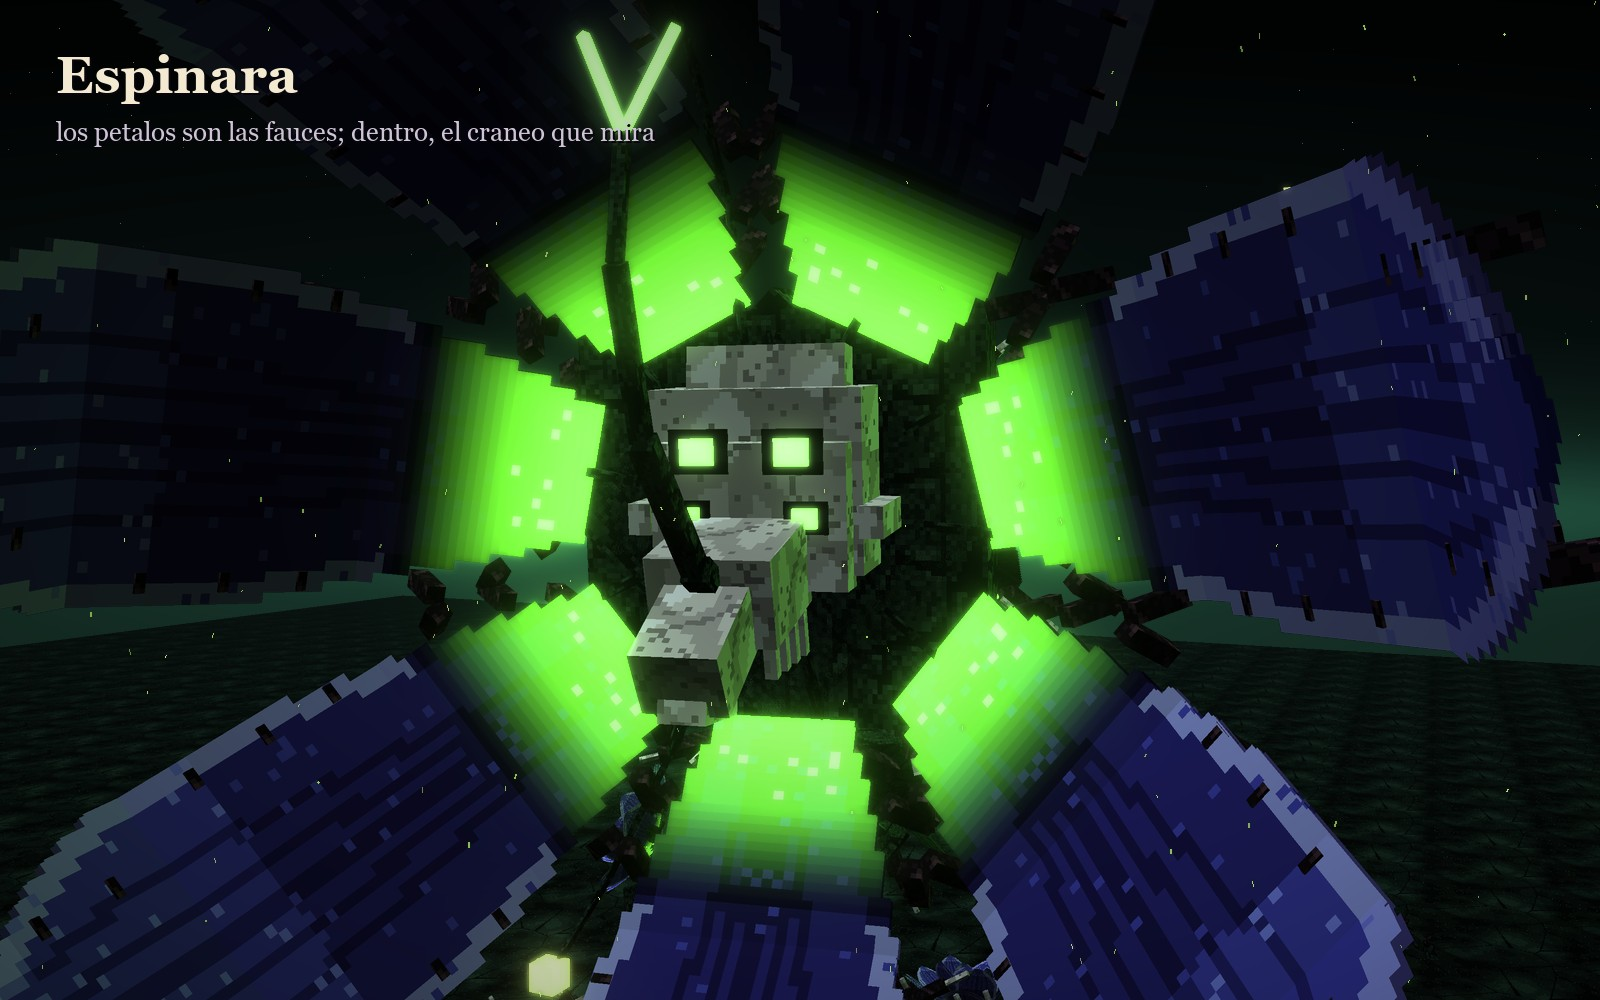
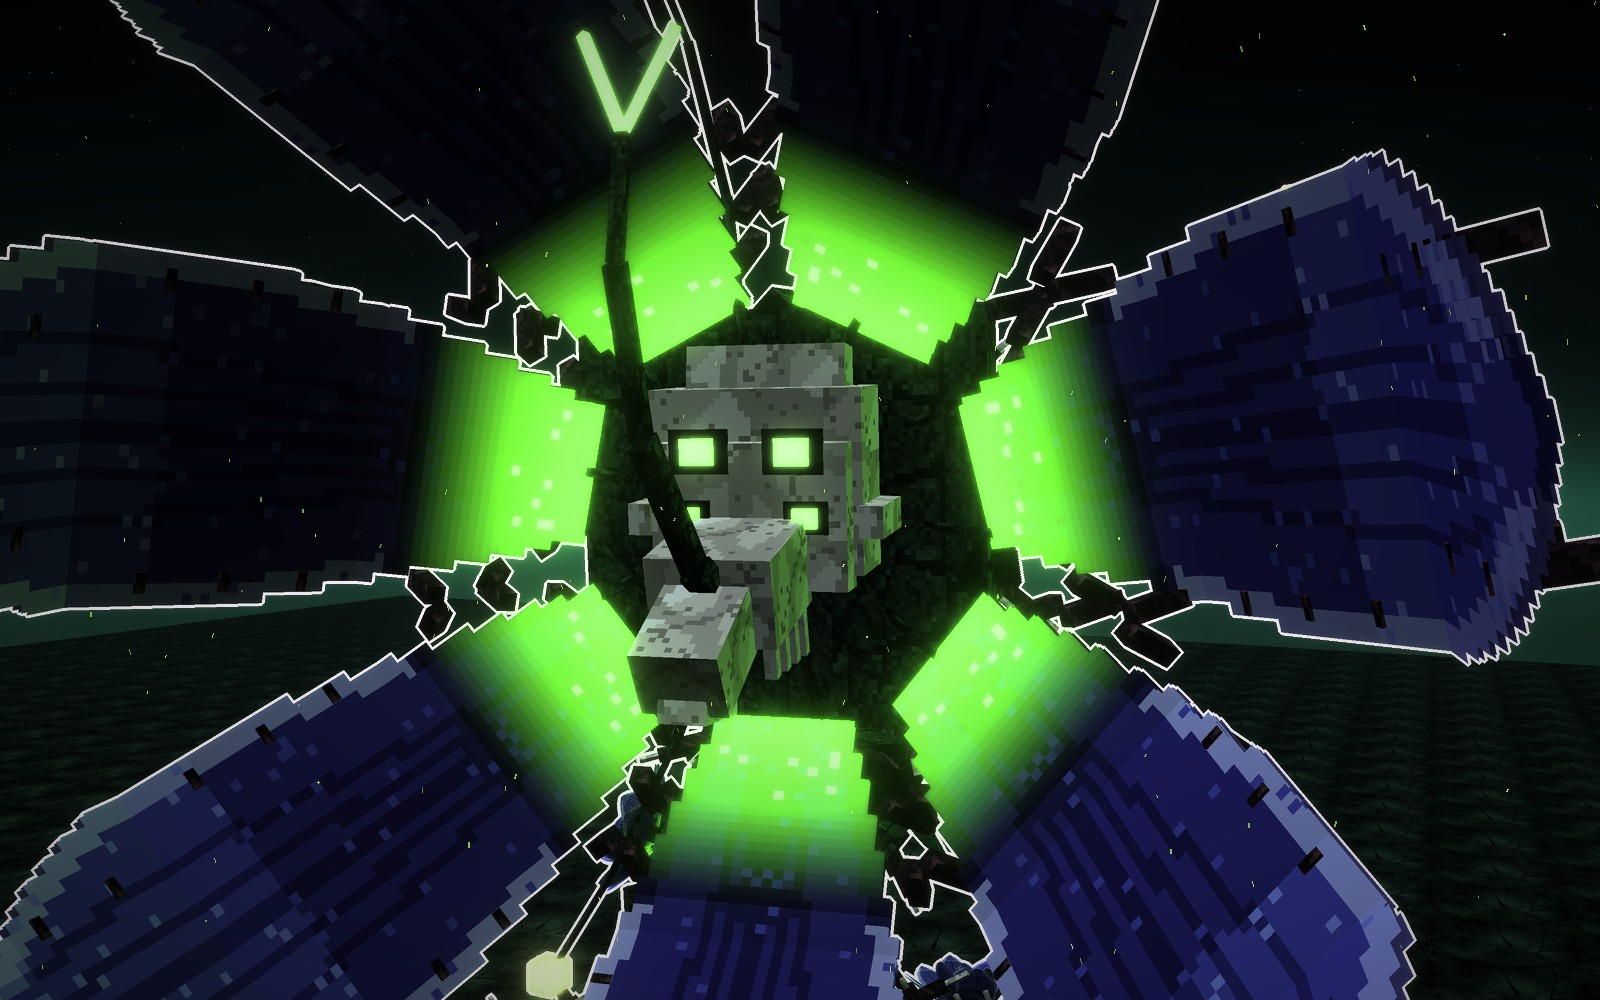
Espinara sheet: no text and a white outline; Lumara closed
- Espinara's photos no longer carry titles, and wear Lumara's white
  outline; her materials sheet is now hers alone and has no labels
- quimeras_escenas.py: no text on renders, outline for Espinara,
  new materiales_C scene
- the monster guide marks Lumara as the best design so far

diff --git a/materiales/generadores/quimeras_escenas.py b/materiales/generadores/quimeras_escenas.py
@@ -7,6 +7,10 @@ escala y la lamina de materiales.
   B  Ixtara     la noche de luna, con niebla baja
   C  Espinara   la cienaga de noche, con esporas que flotan
 
+Las fotos salen sin letras (las fichas no llevan texto encima de los renders) y Espinara lleva el
+contorno blanco, como Lumara (Juan, 13-10-2026: «a Espinara su diseno de ficha quitale las letras
+para que se vea mas claro y pongamosle borde blanco tambien»).
+
 Uso: python quimeras_escenas.py <raiz del proyecto> <carpeta de salida> [escena,escena...]
 """
 import math, os, random, sys
@@ -326,6 +330,26 @@ def rotular(img, texto, sub=None):
     return img
 
 
+def perfilar(lz, mascara, grosor, color=(1.0, 0.97, 1.0)):
+    """El contorno blanco (el de Lumara): los pixeles de fuera que tocan la figura y quedan detras de
+    ella."""
+    zc = np.where(mascara, lz.z, np.inf)
+    for _ in range(grosor):
+        e = zc.copy()
+        e[1:] = np.minimum(e[1:], zc[:-1])
+        e[:-1] = np.minimum(e[:-1], zc[1:])
+        e[:, 1:] = np.minimum(e[:, 1:], zc[:, :-1])
+        e[:, :-1] = np.minimum(e[:, :-1], zc[:, 1:])
+        zc = np.where(mascara, zc, e)
+    borde = ~mascara & np.isfinite(zc) & (lz.z > zc)
+    lz.color[borde] = color
+    lz.alfa[borde] = 1.0
+    lz.emis[borde] = np.array(color) * 0.15
+
+
+CONTORNO = {'C'}                      # las que llevan el contorno blanco: Espinara
+
+
 def quimera(cual, **k):
     if cual == 'A':
         return qm.quelvora(**k)
@@ -370,11 +394,13 @@ def heroe(cual):
     suelo(lz, cam, niebla, cual)
     decorado(lz, cam, niebla, cual)
     qs, info = quimera(cual)
+    z0 = lz.z.copy()
     qm.dibujar(lz, cam, qs, SITIO[cual]['luces'], SITIO[cual]['amb'], niebla)
+    if cual in CONTORNO:
+        perfilar(lz, lz.z < z0, 3 * SS)
     if cual == 'A':
         haz(lz, cam, *info['faro'])
-    img = componer(lz, cam, W, H, cual, n_motas=170)
-    guardar(rotular(img, NOMBRE[cual], SUB_HEROE[cual]), 'heroe_' + cual)
+    guardar(componer(lz, cam, W, H, cual, n_motas=170), 'heroe_' + cual)                 # sin letras
 
 
 def cabeza(cual):
@@ -386,11 +412,13 @@ def cabeza(cual):
     suelo(lz, cam, niebla, cual)
     decorado(lz, cam, niebla, cual)
     qs, info = quimera(cual, **DE_CERCA[cual])
+    z0 = lz.z.copy()
     qm.dibujar(lz, cam, qs, SITIO[cual]['luces'], SITIO[cual]['amb'], niebla)
+    if cual in CONTORNO:
+        perfilar(lz, lz.z < z0, 3 * SS)
     if cual == 'A':
         haz(lz, cam, *info['faro'], brillo=0.35)
-    img = componer(lz, cam, W, H, cual, n_motas=110)
-    guardar(rotular(img, NOMBRE[cual].split(',')[0], SUB_CABEZA[cual]), 'cabeza_' + cual)
+    guardar(componer(lz, cam, W, H, cual, n_motas=110), 'cabeza_' + cual)                # sin letras
 
 
 def trio():
@@ -450,7 +478,32 @@ def materiales():
     guardar(img, 'materiales')
 
 
+def materiales_espinara():
+    """La lamina de materiales de Espinara sola, sin letras: de izquierda a derecha y de arriba
+    abajo, la corteza de zarza, la espina, el petalo, la hoja, el farolillo, el hueso del craneo, los
+    dientes, las fauces, la savia y el polen."""
+    hojas = ('tallo', 'espina', 'petalo', 'hoja', 'vaina', 'hueso', 'diente', 'fauce', 'savia', 'polen')
+    cols, celda, hueco = 5, 280, 36
+    W = hueco + cols * (celda + hueco)
+    H = hueco + 2 * (celda + hueco)
+    img = Image.new('RGB', (W, H), (18, 15, 22))
+    d = ImageDraw.Draw(img)
+    for k, mat in enumerate(hojas):
+        t = qm.MAT[mat]
+        h, w = t.shape[:2]
+        esc = min(celda / w, celda / h)
+        im = Image.fromarray(t).resize((int(w * esc), int(h * esc)), Image.NEAREST)
+        cx = hueco + (k % cols) * (celda + hueco)
+        cy = hueco + (k // cols) * (celda + hueco)
+        fondo = Image.new('RGBA', (celda, celda), (36, 30, 44, 255))
+        fondo.paste(im, ((celda - im.width) // 2, (celda - im.height) // 2), im)
+        img.paste(fondo.convert('RGB'), (cx, cy))
+        d.rectangle((cx - 1, cy - 1, cx + celda, cy + celda), outline=(80, 70, 96))
+    guardar(img, 'materiales_C')
+
+
 ESCENAS = {
+    'materiales_C': materiales_espinara,
     'heroe_A': lambda: heroe('A'), 'heroe_B': lambda: heroe('B'), 'heroe_C': lambda: heroe('C'),
     'cabeza_A': lambda: cabeza('A'), 'cabeza_B': lambda: cabeza('B'), 'cabeza_C': lambda: cabeza('C'),
     'trio': trio, 'materiales': materiales,

diff --git a/materiales/fichas/COMO_HACEMOS_LOS_MONSTRUOS.md b/materiales/fichas/COMO_HACEMOS_LOS_MONSTRUOS.md
@@ -6,8 +6,9 @@ errores.
 
 ## El objetivo
 
-Monstruos al nivel de **Ofidia** (Dedsafio 4) y de **Espinara**: inventados, hechos de
-dos o tres criaturas mezcladas con algo nuevo. No un animal de verdad agrandado.
+Monstruos al nivel de **Lumara** (el mejor hasta ahora, nacida de estudiar a la Ofidia de
+Dedsafio 4) y de **Espinara**: inventados, hechos de dos o tres criaturas mezcladas con algo
+nuevo. No un animal de verdad agrandado.
 
 ## La receta
 
@@ -56,12 +57,12 @@ Los jefes van en `bosses/` y los bichos normales en `mobs/`.
 
 | Ficha | Qué es | Veredicto de Juan |
 |---|---|---|
-| `bosses/espinara/` | zarza que florece, flor carnívora por cabeza | le gustó mucho |
+| `bosses/espinara/` | zarza que florece, flor carnívora por cabeza | le gustó mucho; fotos sin letras y con borde blanco |
 | `bosses/simara/` | sierpe de tambores y cinturones, en 3 tipos | le gustó: es el formato |
 | `bosses/riscara/` | dragona de los riscos, en 3 tipos | le gustó |
 | `bosses/tenazara/` | alacrana de tenazas-fauces, en 3 tipos | guardada, pero es un animal literal |
 | `bosses/lernara/` | hidra de 3, 5 y 2 cabezas | guardada; primera con variantes de forma |
-| `bosses/lumara/` | Lumara, la Sirena de los Cebos: empezó como estudio de la Ofidia de Dedsafio 4 y ahora tiene nombre propio; la original y 3 variantes | le gustó la Encadenada |
+| `bosses/lumara/` | Lumara, la Sirena de los Cebos: empezó como estudio de la Ofidia de Dedsafio 4 y ahora tiene nombre propio; la original y 3 variantes | **el mejor diseño hasta ahora** (13-10); le gustó la Encadenada |
 | `mobs/guaridas/` | yeti, sapo-caimán, buitre y topo | bien, no excelentes |
 
 Formas de cuerpo que ya están, contando los jefes del mod:

diff --git a/materiales/fichas/bosses/espinara/LEEME.md b/materiales/fichas/bosses/espinara/LEEME.md
@@ -14,4 +14,10 @@ La quimera que mas le gusto a Juan (12-10-2026) de la ficha del quinto jefe
 - Paleta: zarza #132014, petalo #2a2466, nectar #7aff3a, hueso #cbbfa2, espina #2a1a1e.
 
 El boceto sale de `materiales/generadores/quimeras_modelo.py` (`espinara()`) y
-`quimeras_escenas.py` (escenas `heroe_C` y `cabeza_C`).
+`quimeras_escenas.py` (escenas `heroe_C`, `cabeza_C` y `materiales_C`).
+
+Desde el 13-10-2026 las fotos van sin letras y con el borde blanco de Lumara (Juan: «a
+Espinara su diseño de ficha quítale las letras para que se vea más claro y pongámosle
+borde blanco también»). La lámina `espinara_materiales.jpg` es solo suya y sin rótulos: de
+izquierda a derecha y de arriba abajo, la corteza de zarza, la espina, el pétalo, la hoja,
+el farolillo, el hueso del cráneo, los dientes, las fauces, la savia y el polen.
